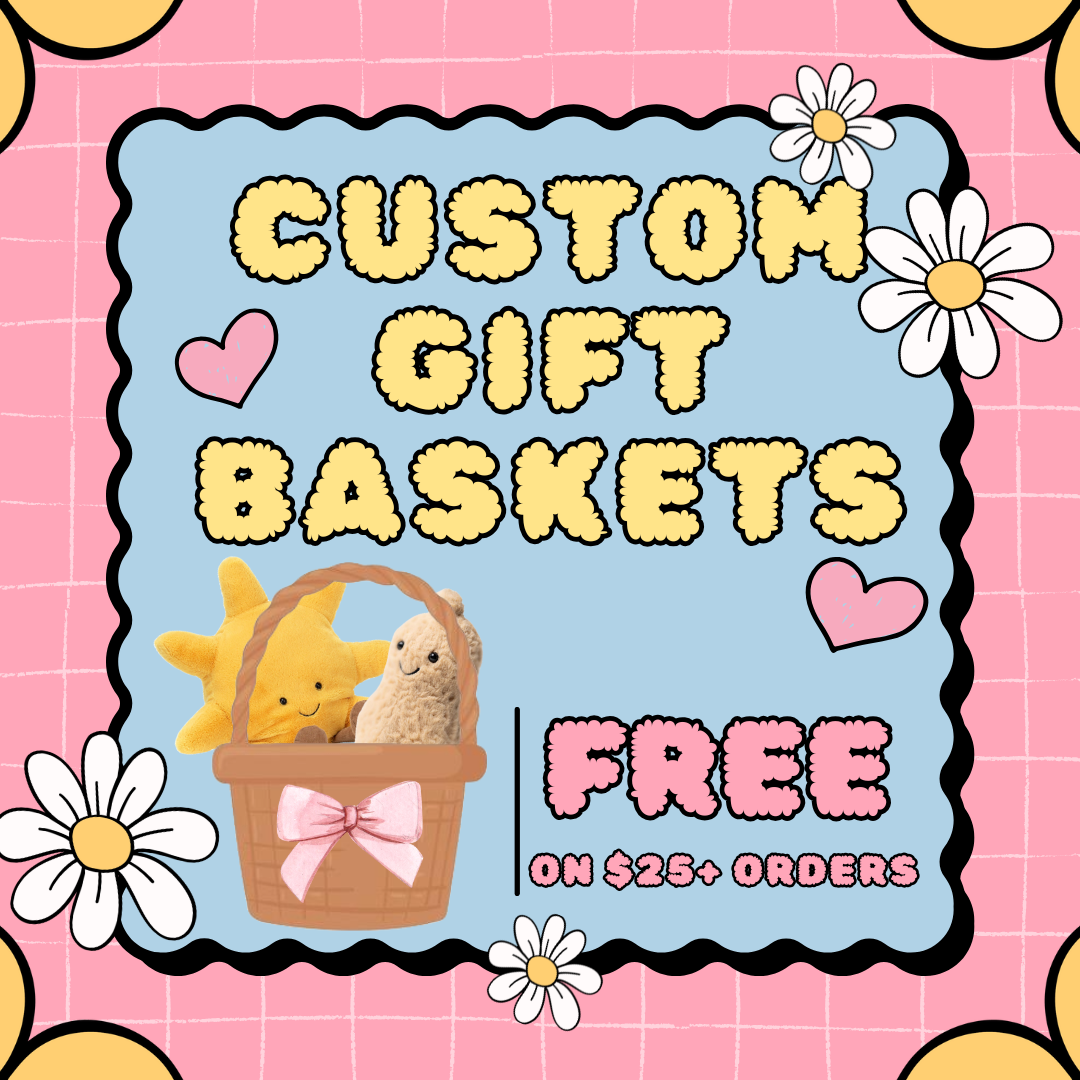
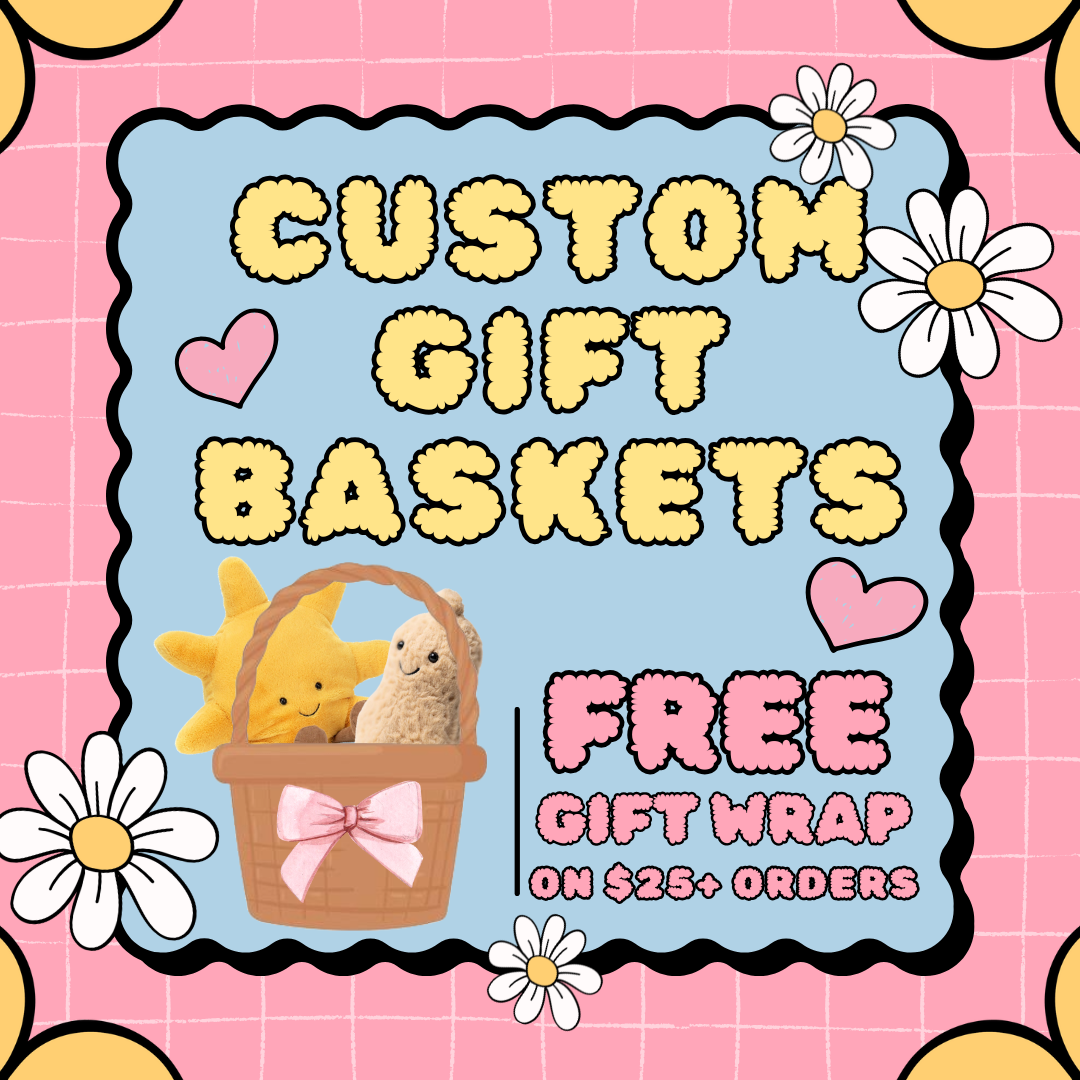
Adds bday club and updates gift baskets msg

Changed region(s): [[0.4889, 0.6111, 0.8556, 0.8556]]

diff --git a/www.toytreetx.com/test.html b/www.toytreetx.com/test.html
@@ -3457,7 +3457,7 @@ window.ShopifyPay.apiHost = "shop.app\/pay";</script>
 		        
 		        
 		        
-<a href="/collections/puzzles"
+<a href="/cdn/products/gift-baskets"
 		            class="btn btn--secondary btn--small"
 		            aria-label="Shop Now: Puzzles">Shop Now</a>
 		        
@@ -3494,23 +3494,23 @@ window.ShopifyPay.apiHost = "shop.app\/pay";</script>
           
             
             
-<div id="TextColumnImageWrapper-16039103602c4c7675-1" class="feature-row__image-wrapper js" style="background-image: url('cdn/shop/files/OrangeHappyEasterBunnyPatternInstagramPost_500x500.png?v=1743556905'); background-size: cover;">
+<div id="TextColumnImageWrapper-16039103602c4c7675-1" class="feature-row__image-wrapper js" style="background-image: url('cdn/shop/files/bday_club(3).png?v=1743556905'); background-size: cover;">
               <div class="brand-content" style="padding-top:100.0%;" data-image-loading-animation>
 			  	
-		          <h3 class="h4">..........</h3>
+		          <h3 class="h4"></h3>
 		        
 		        
 		        
-<a href="/products/easter-basket-large-bundle"
+<a href="/products/gift-basket"
 		            class="btn btn--secondary btn--small"
-		            aria-label="Shop Now: Custom Easter Basket Bundle">Shop Now</a>
+		            aria-label="Shop Now: Custom Easter Basket Bundle">JOIN NOW</a>
 		        
 		        
               </div>
             </div>
             <noscript>
               <p>
-                <img src="cdn/shop/files/gift_baskets.png?v=1743556905" class="feature-row__image" />
+                <img src="cdn/shop/files/bday_club.png?v=1743556905" class="feature-row__image" />
               </p>
             </noscript>
           
